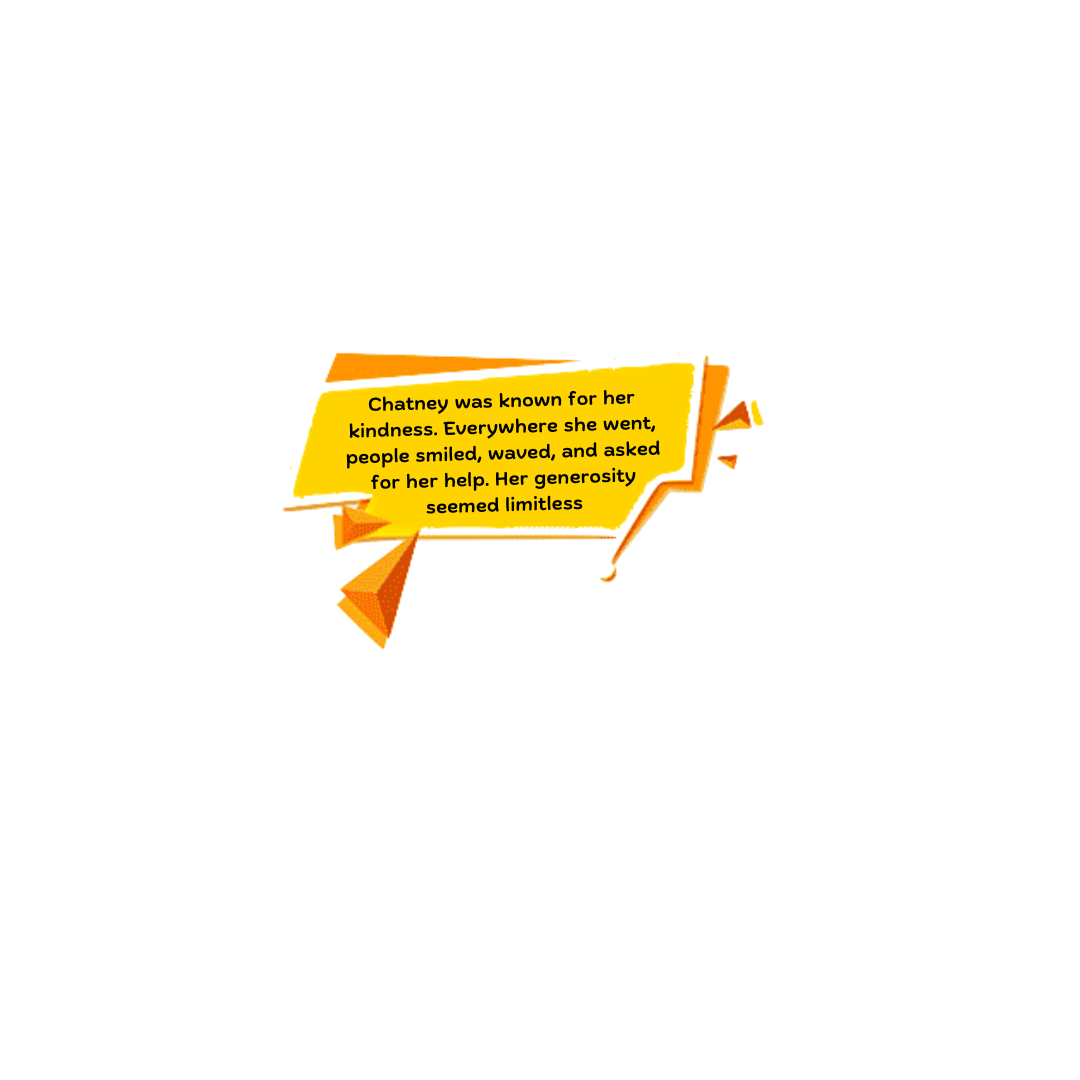
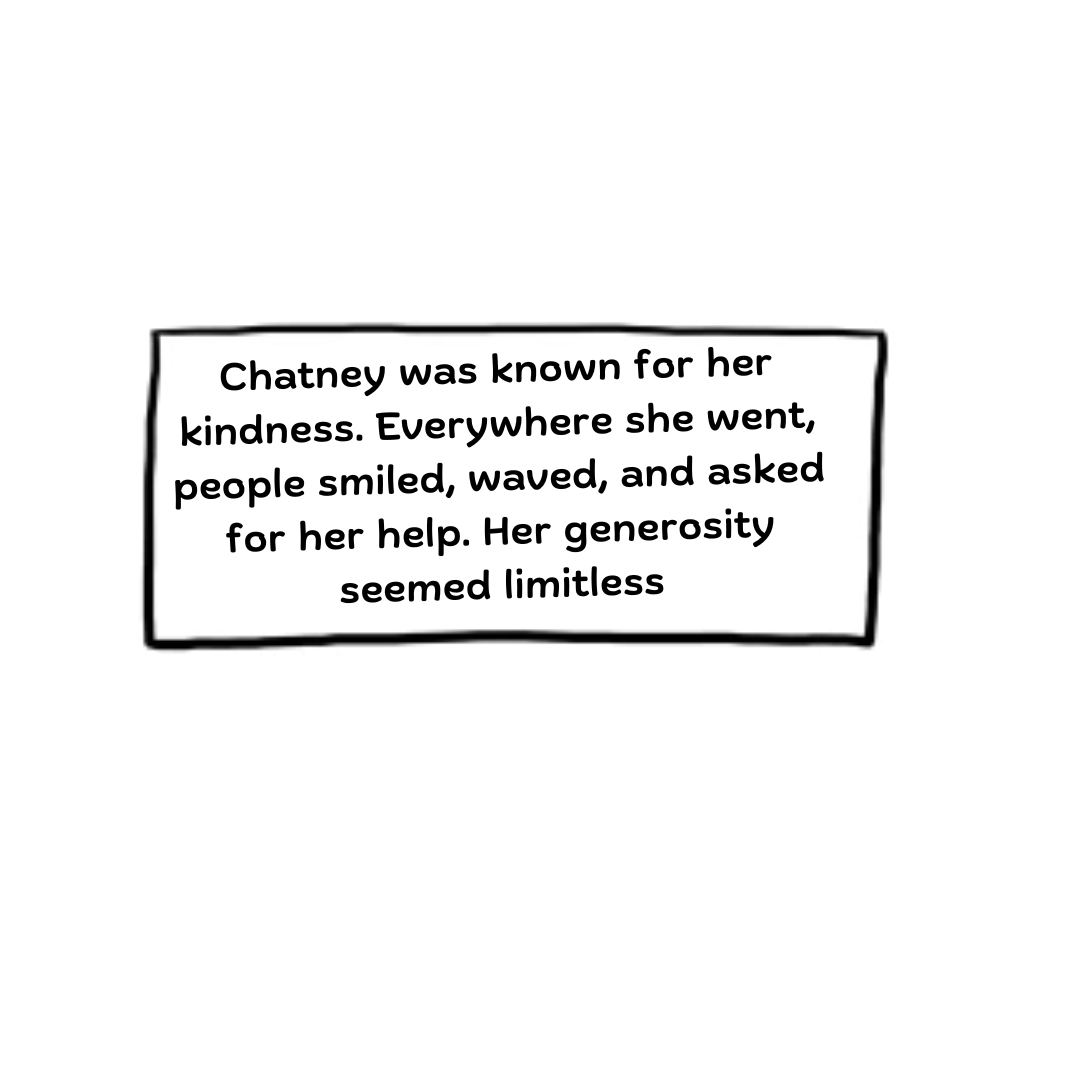
images

Changed region(s): [[0.1222, 0.275, 0.825, 0.6111]]

diff --git a/comicAssign/styles.css b/comicAssign/styles.css
@@ -203,11 +203,15 @@ h1 {
 
 
 .bubble-image {
-    position: fixed;
-    top: 20px;
-    left: 20px;
-    width: 150px; /* Adjust size as needed */
-    height: auto;
-    display: none; /* Hidden initially */
-    z-index: 10;
+    position: fixed;         /* Fixed position relative to the viewport */
+    top: -250px;                   /* Position at the very top */
+    left: -200px;                /* Position at the very left */
+    width: 800px;           /* Set a desired width (adjust as needed) */
+    height: 800px;          /* Set a desired height (adjust as needed) */
+    display: none;         /* Set to block for visibility */
+    z-index: 10;            /* Ensure it's above other elements */
+    padding: 0;             /* No padding */
+    margin: 0;              /* Ensure no margin is added */
+    box-sizing: border-box; /* Include padding and border in total width and height */
 }
+

diff --git a/comicAssign/index.html b/comicAssign/index.html
@@ -15,8 +15,6 @@
 
     <!-- Section 1 -->
 <div id="page1" class="section" tabindex="0">
-    <h1>In the year 2032, NYU Abu Dhabi admitted its first AI-student, Chatney. Her code was designed to help, but no one foresaw the consequences…</h1>
-
     <!-- Hidden text bubble image -->
     <img id="textBubble" src="images/textbox1.png" alt="Text Bubble" class="bubble-image">
 </div>
